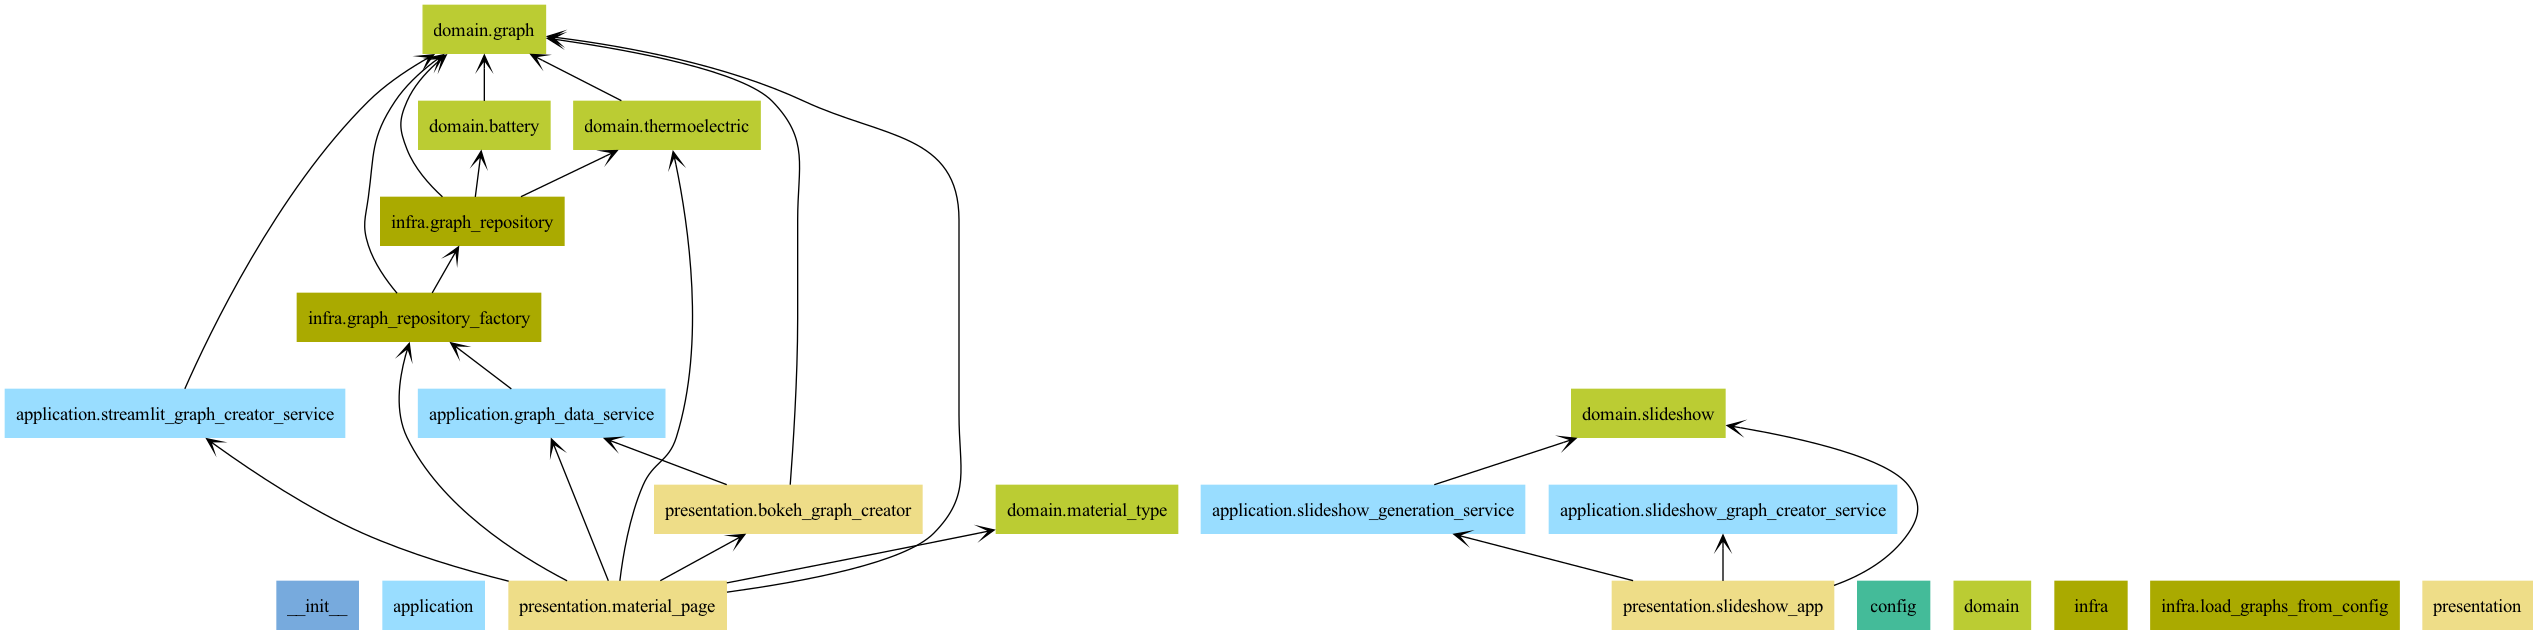
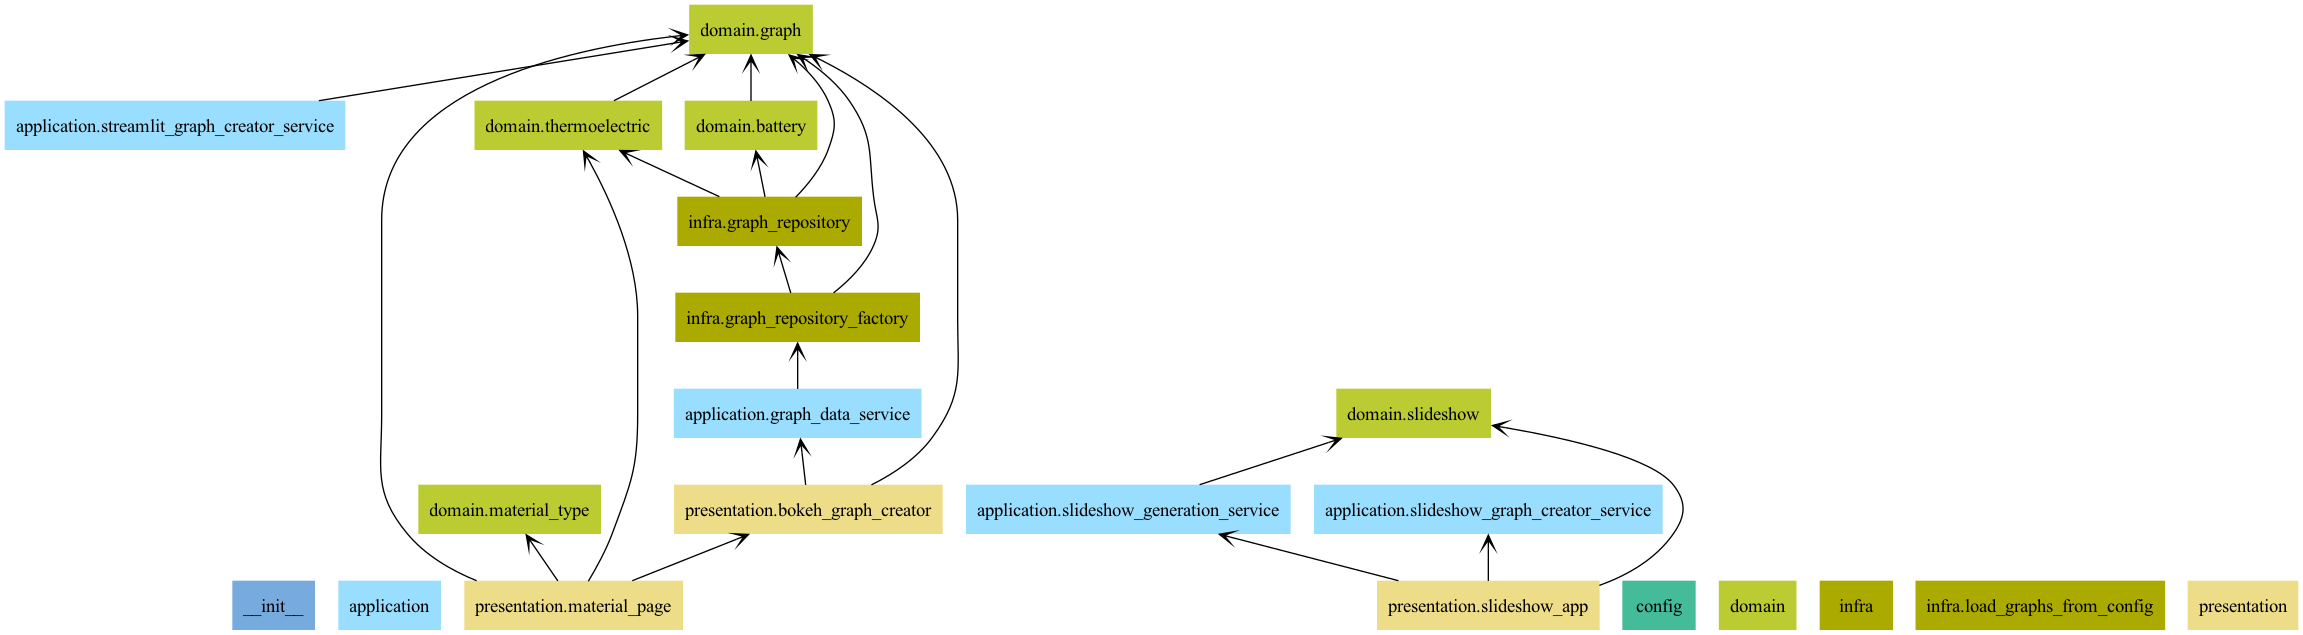
refactor: remove unused dependencies from material_page.py to clean the packages diagram

diff --git a/src/presentation/material_page.py b/src/presentation/material_page.py
@@ -1,15 +1,12 @@
 import os
 import streamlit as st
 from streamlit_javascript import st_javascript
-from application.streamlit_graph_creator_service import StreamlitGraphCreator
-from application.graph_data_service import GraphDataService
 import datetime
 import pytz
 from presentation.bokeh_graph_creator import BokehGraphCreator
 from streamlit_bokeh import streamlit_bokeh
 
 from domain.material_type import MaterialType
-from infra.graph_repository_factory import ApiHostName, GraphRepositoryFactory
 from domain.graph import Axis, AxisRange, AxisType
 
 def main(material_type: MaterialType):
@@ -42,12 +39,6 @@ def main(material_type: MaterialType):
     else:
         date_to_str = None
 
-    # graph_data_service = GraphDataService(
-    #     STARRYDATA_BULK_DATA_API=os.environ.get("STARRYDATA_BULK_DATA_API", ""),
-    #     STARRYDATA2_API_XY_DATA=os.environ.get("STARRYDATA2_API_XY_DATA", "")
-    # )
-
-
     # configファイルをPythonファイルから読み込む
     if material_type.value == MaterialType.THERMOELECTRIC.value:
         from domain.thermoelectric import THERMOELECTRIC_GRAPHS as CONFIG_GRAPHS
@@ -55,13 +46,6 @@ def main(material_type: MaterialType):
         from domain.battery import BATTERY_GRAPHS as CONFIG_GRAPHS
     else:
         CONFIG_GRAPHS = []
-
-    # graph_repository = GraphRepositoryFactory.create(ApiHostName.CLEANSING_DATASET)
-    # base_graph = graph_repository.get_graph_by_property(
-    #     material_type=material_type,
-    #     property_x=CONFIG_GRAPHS[0].x_axis.property,
-    #     property_y=CONFIG_GRAPHS[0].y_axis.property
-    # )
 
     graph_options = [(g.x_axis.property, g.y_axis.property) for g in CONFIG_GRAPHS]
 
@@ -85,7 +69,7 @@ def main(material_type: MaterialType):
     x_type = st.sidebar.selectbox("X Axis Scale", ["linear", "log"], index=0 if x_axis.axis_type.value=="linear" else 1)
     y_type = st.sidebar.selectbox("Y Axis Scale", ["linear", "log"], index=0 if y_axis.axis_type.value=="linear" else 1)
 
-    graph_creator = BokehGraphCreator(GraphDataService())
+    graph_creator = BokehGraphCreator()
     new_x_axis = Axis(
         property=prop_x,
         unit=x_axis.unit,
@@ -109,52 +93,7 @@ def main(material_type: MaterialType):
         y_axis=new_y_axis
     )
 
-    # graph_service = StreamlitGraphCreator()
-    # figure = graph_service.create_bokeh_graph(base_graph)
-    # base_data_source = graph_service.create_bokeh_data_source(base_graph)
-    # base_renderer = figure.circle(
-    #     "x",
-    #     "y",
-    #     source=base_data_source,
-    #     fill_color="blue",
-    #     fill_alpha=1,
-    #     size=2,
-    #     line_width=0,
-    #     line_color="#3288bd",
-    # )
-
-
-    # div, script, title, figure = graph_service.create_bokeh_graph(
-    #     base_data,
-    #     highlight_points,
-    #     highlight_lines,
-    #     sizef_points,
-    #     line_sizef_points,
-    #     x_end,
-    #     y_end,
-    #     label,
-    #     widths,
-    #     y_scale,
-    #     [x_min, x_max],
-    #     [y_min, y_max],
-    #     x_scale,
-    #     material_type=material_type,
-    # )
-
     st.subheader(f"Graph: {prop_x} vs {prop_y}")
-
-
-
-    # from bokeh.plotting import figure
-    # from bokeh.models import ColumnDataSource
-    # x = [1, 2, 3, 4, 5]
-    # y = [2, 4, 8, 16, 32]
-    # source = ColumnDataSource(data=dict(x=x, y=y))
-
-    # YOUR_BOKEH_FIGURE = figure(title="Simple Line Example",
-    #                     x_axis_label="x",
-    #                     y_axis_label="y")
-    # YOUR_BOKEH_FIGURE.scatter(x='x', y='y', source=source, legend_label="Trend", line_width=2)
 
 
 

diff --git a/src/presentation/bokeh_graph_creator.py b/src/presentation/bokeh_graph_creator.py
@@ -5,7 +5,7 @@ from application.graph_data_service import GraphDataService
 from domain.graph import XYSeries, Graph, Axis, AxisType, AxisRange
 
 class BokehGraphCreator():
-    def __init__(self, graph_data_service: GraphDataService):
+    def __init__(self, graph_data_service: GraphDataService = GraphDataService()):
         self.graph_data_service = graph_data_service
 
     def get_data_point_series_with_axis(self, prop_x: str, prop_y: str, unit_x: str = "", unit_y: str = "") -> XYSeries:
